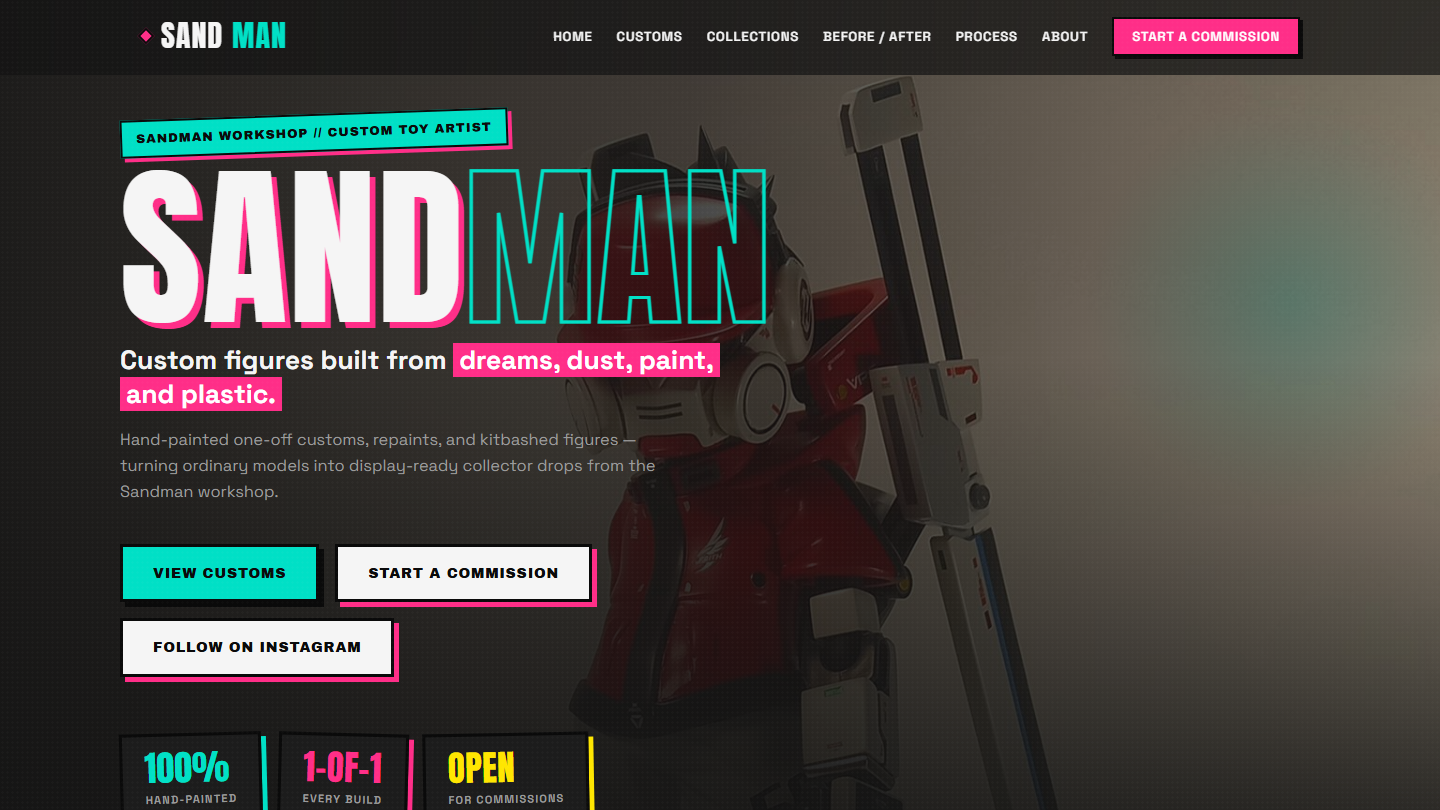
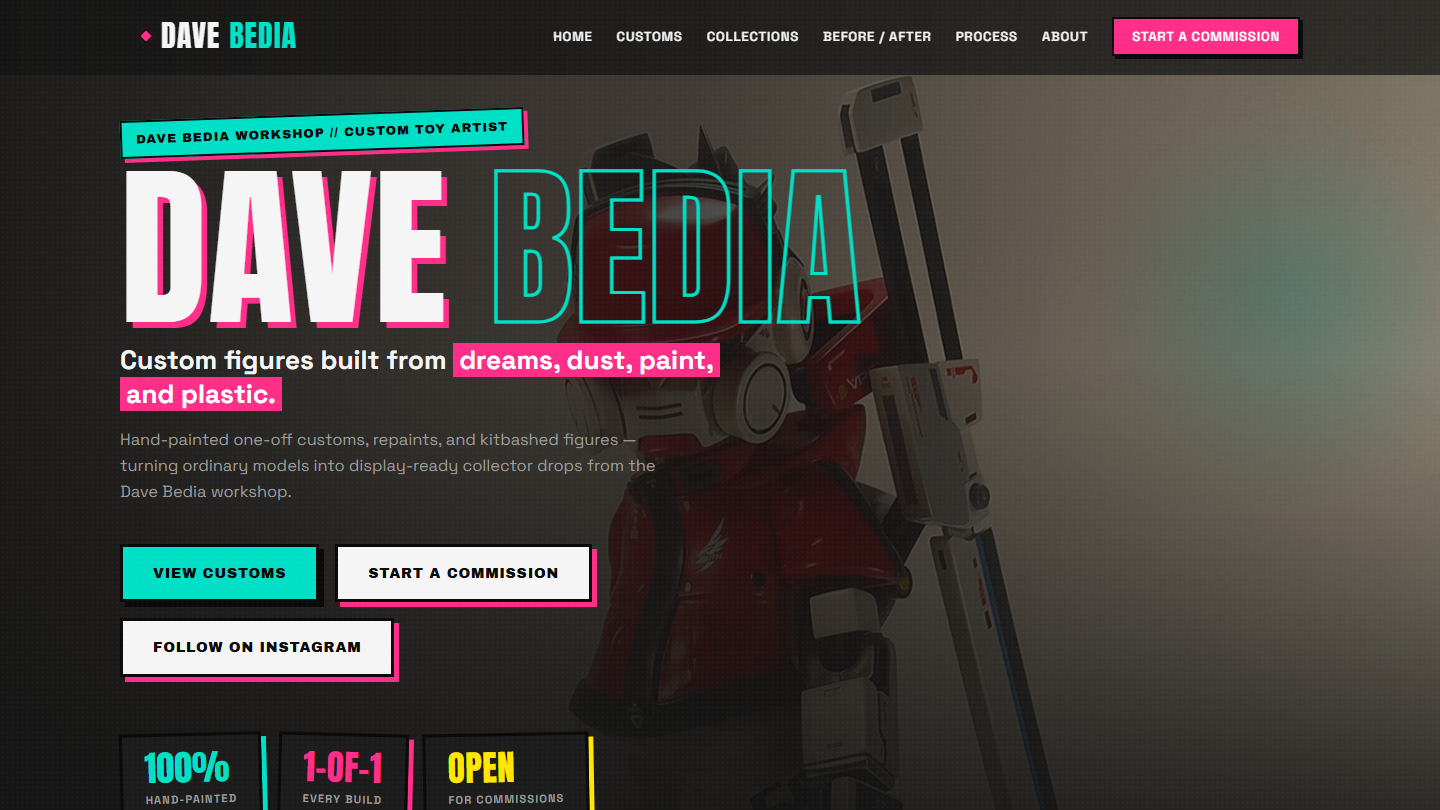
Rename SANDMAN -> Dave Bedia in Urban variation + refresh V1/V3 previews
Client requested the name change on variations 1 and 3 only.

diff --git a/urban/index.html b/urban/index.html
@@ -3,9 +3,9 @@
 <head>
   <meta charset="UTF-8">
   <meta name="viewport" content="width=device-width, initial-scale=1.0">
-  <title>SANDMAN — Custom Toy Artist | Hand-Painted Figures &amp; Collectible Art Models</title>
-  <meta name="description" content="SANDMAN is a Filipino custom toy artist crafting hand-painted figures, repaints, kitbashes, and collectible art models. One-off customs and commissioned builds for serious collectors.">
-  <meta name="author" content="Sandman">
+  <title>Dave Bedia — Custom Toy Artist | Hand-Painted Figures &amp; Collectible Art Models</title>
+  <meta name="description" content="Dave Bedia is a Filipino custom toy artist crafting hand-painted figures, repaints, kitbashes, and collectible art models. One-off customs and commissioned builds for serious collectors.">
+  <meta name="author" content="Dave Bedia">
   <link rel="preconnect" href="https://fonts.googleapis.com">
   <link rel="preconnect" href="https://fonts.gstatic.com" crossorigin>
   <link href="https://fonts.googleapis.com/css2?family=Anton&family=Archivo+Black&family=Space+Grotesk:wght@400;500;600;700&display=swap" rel="stylesheet">
@@ -1013,7 +1013,7 @@
   <!-- ====================== NAVIGATION ====================== -->
   <nav id="nav">
     <div class="nav-inner">
-      <a href="#hero" class="logo"><span class="dot"></span>SAND<b>MAN</b></a>
+      <a href="#hero" class="logo"><span class="dot"></span>DAVE <b>BEDIA</b></a>
       <button class="hamburger" aria-label="Toggle menu"><span></span><span></span><span></span></button>
       <ul class="nav-links">
         <li><a href="#hero">Home</a></li>
@@ -1034,14 +1034,14 @@
          <video class="hero-vid" autoplay muted loop playsinline
                 src="../portfolio_materials/vids/Custom KAIZER.mp4"></video> -->
     <div class="hero-bg">
-      <img src="../portfolio_materials/img/Custom Reaver/Custom Reaver.jpg" alt="Featured custom figure by Sandman"><!-- REPLACE: hero image -->
+      <img src="../portfolio_materials/img/Custom Reaver/Custom Reaver.jpg" alt="Featured custom figure by Dave Bedia"><!-- REPLACE: hero image -->
     </div>
     <div class="hero-inner">
       <div class="hero-copy">
-        <p class="hero-tag">Sandman Workshop // Custom Toy Artist</p>
-        <h1>SAND<span class="stroke">MAN</span></h1>
+        <p class="hero-tag">Dave Bedia Workshop // Custom Toy Artist</p>
+        <h1>DAVE <span class="stroke">BEDIA</span></h1>
         <p class="hero-lead">Custom figures built from <span class="hl">dreams, dust, paint, and plastic.</span></p>
-        <p class="hero-sub">Hand-painted one-off customs, repaints, and kitbashed figures — turning ordinary models into display-ready collector drops from the Sandman workshop.</p>
+        <p class="hero-sub">Hand-painted one-off customs, repaints, and kitbashed figures — turning ordinary models into display-ready collector drops from the Dave Bedia workshop.</p>
         <div class="hero-ctas">
           <a href="#customs" class="btn btn-primary">View Customs</a>
           <a href="#contact" class="btn btn-ghost">Start a Commission</a>
@@ -1085,7 +1085,7 @@
       <div class="section-head reveal">
         <span class="eyebrow">What I Build</span>
         <h2 class="section-title">Collections &amp; <span class="pink">Build Types</span></h2>
-        <p class="section-subtitle">From mecha repaints to full scratch builds — the kinds of work that come out of the Sandman workshop.</p>
+        <p class="section-subtitle">From mecha repaints to full scratch builds — the kinds of work that come out of the Dave Bedia workshop.</p>
       </div>
       <div class="collections-grid">
         <a href="#customs" class="collection-tile reveal"><div class="ct-icon">🤖</div><h3>Mecha Customs</h3><p>Gundam, mechs, and robot figures with clean panel work and battle-worn detailing.</p></a>
@@ -1182,8 +1182,8 @@
         </div>
         <div class="about-text reveal">
           <span class="eyebrow">The Artist</span>
-          <h2>About <span class="pop">Sandman</span></h2>
-          <p>Sandman is a Filipino custom toy artist focused on <span class="highlight">hand-painted figures, kitbashes, repaints, and collectible art models</span>. His work combines model-making, airbrush painting, detailing, and character customization to turn ordinary figures into one-of-a-kind collector pieces.</p>
+          <h2>About <span class="pop">Dave Bedia</span></h2>
+          <p>Dave Bedia is a Filipino custom toy artist focused on <span class="highlight">hand-painted figures, kitbashes, repaints, and collectible art models</span>. His work combines model-making, airbrush painting, detailing, and character customization to turn ordinary figures into one-of-a-kind collector pieces.</p>
           <p>Every build starts with a conversation — your vision, your favorite character, your dream design — and ends with a display-ready piece made to last. No two customs are ever the same.</p>
           <div class="about-meta">
             <div class="am-block">
@@ -1248,8 +1248,8 @@
           <ul class="contact-links">
             <li><a href="#" data-social="email"><svg viewBox="0 0 24 24"><path d="M20 4H4c-1.1 0-2 .9-2 2v12c0 1.1.9 2 2 2h16c1.1 0 2-.9 2-2V6c0-1.1-.9-2-2-2zm0 4l-8 5-8-5V6l8 5 8-5v2z"/></svg><span><span class="cl-label">Email</span><span class="cl-val" data-social-text="email">your@email.com</span></span></a></li>
             <li><a href="#" data-social="messenger" target="_blank" rel="noopener"><svg viewBox="0 0 24 24"><path d="M12 2C6.36 2 1.69 6.03 1.69 11.05c0 2.84 1.42 5.37 3.63 7.02v3.43l3.27-1.8c.87.24 1.8.37 2.76.37 5.64 0 10.22-4.03 10.22-9.02S17.64 2 12 2zm1.07 12.15l-2.6-2.77-5.08 2.77 5.58-5.92 2.67 2.77 5.01-2.77-5.58 5.92z"/></svg><span><span class="cl-label">Messenger</span><span class="cl-val">Message me on Facebook</span></span></a></li>
-            <li><a href="#" data-social="instagram" target="_blank" rel="noopener"><svg viewBox="0 0 24 24"><path d="M7.8 2h8.4C19.4 2 22 4.6 22 7.8v8.4a5.8 5.8 0 0 1-5.8 5.8H7.8C4.6 22 2 19.4 2 16.2V7.8A5.8 5.8 0 0 1 7.8 2m-.2 2A3.6 3.6 0 0 0 4 7.6v8.8C4 18.39 5.61 20 7.6 20h8.8a3.6 3.6 0 0 0 3.6-3.6V7.6C20 5.61 18.39 4 16.4 4H7.6m9.65 1.5a1.25 1.25 0 0 1 1.25 1.25A1.25 1.25 0 0 1 17.25 8 1.25 1.25 0 0 1 16 6.75a1.25 1.25 0 0 1 1.25-1.25M12 7a5 5 0 0 1 5 5 5 5 0 0 1-5 5 5 5 0 0 1-5-5 5 5 0 0 1 5-5m0 2a3 3 0 0 0-3 3 3 3 0 0 0 3 3 3 3 0 0 0 3-3 3 3 0 0 0-3-3z"/></svg><span><span class="cl-label">Instagram</span><span class="cl-val" data-social-text="instagram">@sandman.customs</span></span></a></li>
-            <li><a href="#" data-social="facebook" target="_blank" rel="noopener"><svg viewBox="0 0 24 24"><path d="M22 12c0-5.52-4.48-10-10-10S2 6.48 2 12c0 4.84 3.44 8.87 8 9.8V15H8v-3h2V9.5C10 7.57 11.57 6 13.5 6H16v3h-2c-.55 0-1 .45-1 1v2h3v3h-3v6.95c5.05-.5 9-4.76 9-9.95z"/></svg><span><span class="cl-label">Facebook</span><span class="cl-val">Sandman Workshop</span></span></a></li>
+            <li><a href="#" data-social="instagram" target="_blank" rel="noopener"><svg viewBox="0 0 24 24"><path d="M7.8 2h8.4C19.4 2 22 4.6 22 7.8v8.4a5.8 5.8 0 0 1-5.8 5.8H7.8C4.6 22 2 19.4 2 16.2V7.8A5.8 5.8 0 0 1 7.8 2m-.2 2A3.6 3.6 0 0 0 4 7.6v8.8C4 18.39 5.61 20 7.6 20h8.8a3.6 3.6 0 0 0 3.6-3.6V7.6C20 5.61 18.39 4 16.4 4H7.6m9.65 1.5a1.25 1.25 0 0 1 1.25 1.25A1.25 1.25 0 0 1 17.25 8 1.25 1.25 0 0 1 16 6.75a1.25 1.25 0 0 1 1.25-1.25M12 7a5 5 0 0 1 5 5 5 5 0 0 1-5 5 5 5 0 0 1-5-5 5 5 0 0 1 5-5m0 2a3 3 0 0 0-3 3 3 3 0 0 0 3 3 3 3 0 0 0 3-3 3 3 0 0 0-3-3z"/></svg><span><span class="cl-label">Instagram</span><span class="cl-val" data-social-text="instagram">@davebedia.customs</span></span></a></li>
+            <li><a href="#" data-social="facebook" target="_blank" rel="noopener"><svg viewBox="0 0 24 24"><path d="M22 12c0-5.52-4.48-10-10-10S2 6.48 2 12c0 4.84 3.44 8.87 8 9.8V15H8v-3h2V9.5C10 7.57 11.57 6 13.5 6H16v3h-2c-.55 0-1 .45-1 1v2h3v3h-3v6.95c5.05-.5 9-4.76 9-9.95z"/></svg><span><span class="cl-label">Facebook</span><span class="cl-val">Dave Bedia Workshop</span></span></a></li>
           </ul>
           <div class="slots-banner">
             <strong>LIMITED BUILD SLOTS</strong>
@@ -1264,8 +1264,8 @@
   <footer>
     <div class="footer-inner">
       <div class="footer-brand">
-        <div class="logo"><span class="dot"></span>SAND<b>MAN</b></div>
-        <p>Hand-painted custom figures and collectible art models from the Sandman workshop.</p>
+        <div class="logo"><span class="dot"></span>DAVE <b>BEDIA</b></div>
+        <p>Hand-painted custom figures and collectible art models from the Dave Bedia workshop.</p>
       </div>
       <div class="footer-socials">
         <a href="#" data-social="instagram" target="_blank" rel="noopener" aria-label="Instagram"><svg viewBox="0 0 24 24"><path d="M7.8 2h8.4C19.4 2 22 4.6 22 7.8v8.4a5.8 5.8 0 0 1-5.8 5.8H7.8C4.6 22 2 19.4 2 16.2V7.8A5.8 5.8 0 0 1 7.8 2m-.2 2A3.6 3.6 0 0 0 4 7.6v8.8C4 18.39 5.61 20 7.6 20h8.8a3.6 3.6 0 0 0 3.6-3.6V7.6C20 5.61 18.39 4 16.4 4H7.6m9.65 1.5a1.25 1.25 0 0 1 1.25 1.25A1.25 1.25 0 0 1 17.25 8 1.25 1.25 0 0 1 16 6.75a1.25 1.25 0 0 1 1.25-1.25M12 7a5 5 0 0 1 5 5 5 5 0 0 1-5 5 5 5 0 0 1-5-5 5 5 0 0 1 5-5m0 2a3 3 0 0 0-3 3 3 3 0 0 0 3 3 3 3 0 0 0 3-3 3 3 0 0 0-3-3z"/></svg></a>
@@ -1273,7 +1273,7 @@
         <a href="#" data-social="email" aria-label="Email"><svg viewBox="0 0 24 24"><path d="M20 4H4c-1.1 0-2 .9-2 2v12c0 1.1.9 2 2 2h16c1.1 0 2-.9 2-2V6c0-1.1-.9-2-2-2zm0 4l-8 5-8-5V6l8 5 8-5v2z"/></svg></a>
       </div>
     </div>
-    <div class="footer-bottom">&copy; 2026 Sandman Workshop. All customs are one-off, hand-painted collector pieces.</div>
+    <div class="footer-bottom">&copy; 2026 Dave Bedia Workshop. All customs are one-off, hand-painted collector pieces.</div>
   </footer>
 
   <!-- ====================== MODAL / LIGHTBOX ====================== -->
@@ -1304,7 +1304,7 @@
       facebook:  'https://facebook.com/yourpage',     // REPLACE
       messenger: 'https://m.me/yourpage',             // REPLACE
       email:     'your@email.com',                    // REPLACE
-      instagramHandle: '@sandman.customs'             // REPLACE — display text only
+      instagramHandle: '@davebedia.customs'             // REPLACE — display text only
     };
 
     /* =========================================================================
